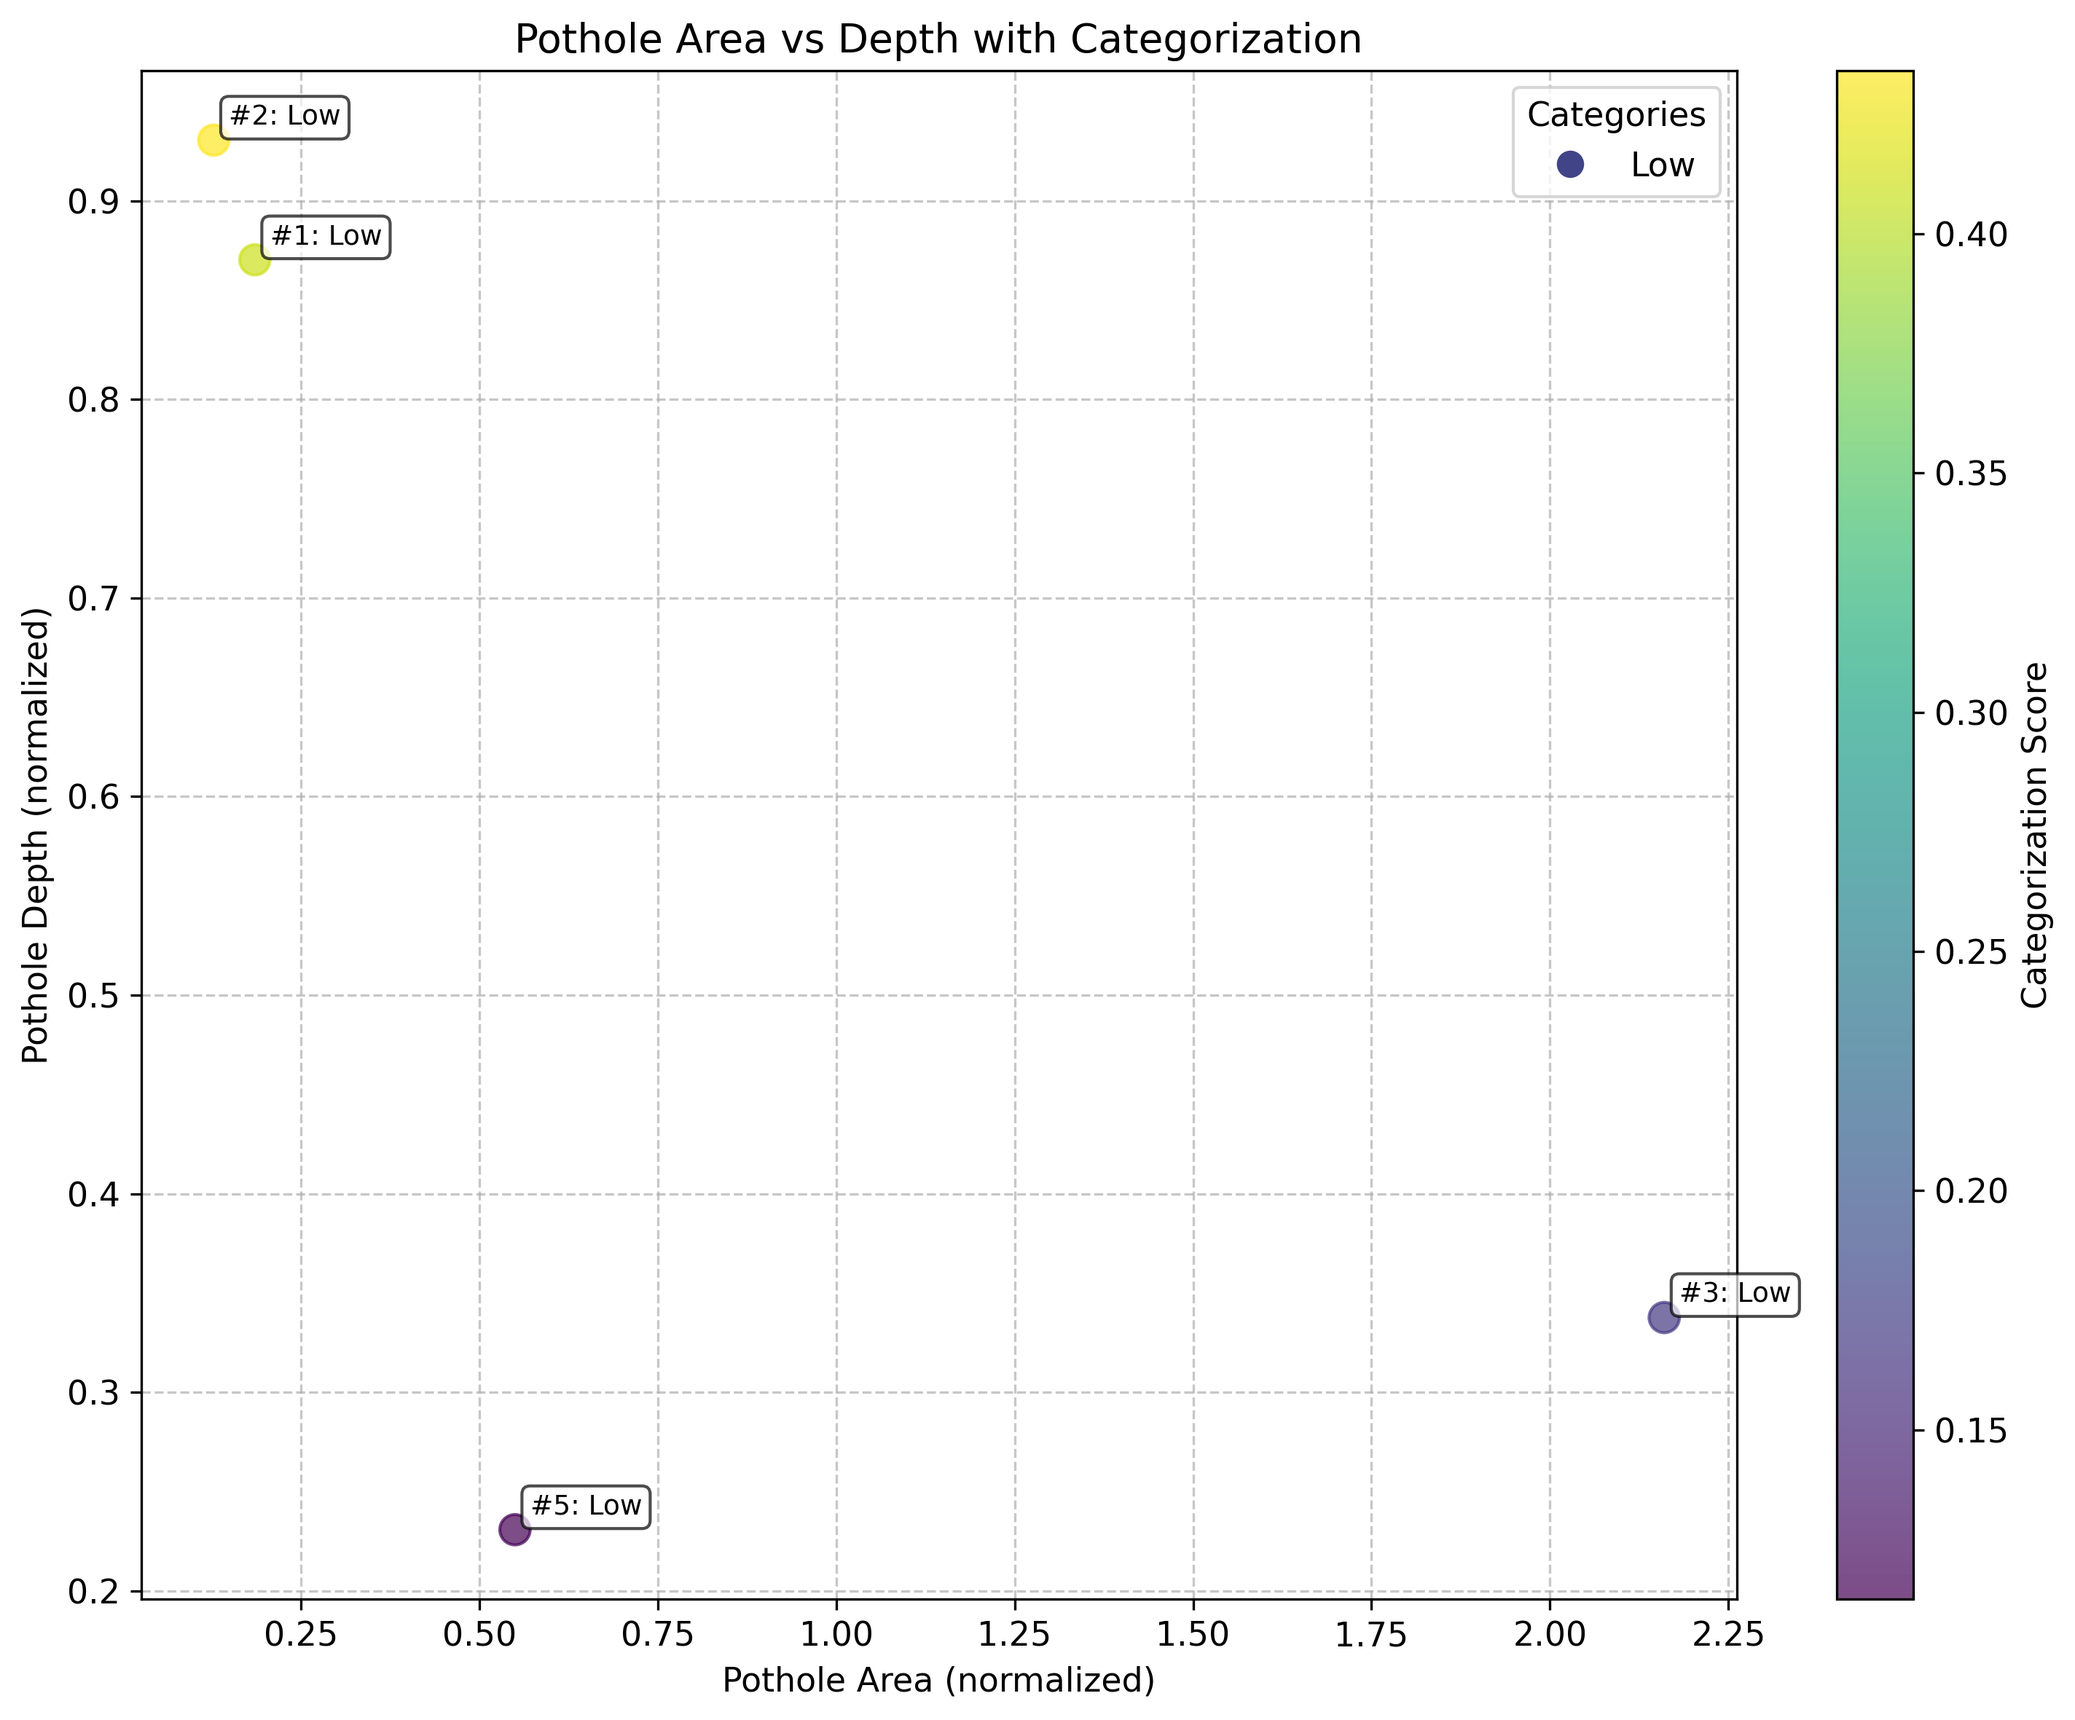
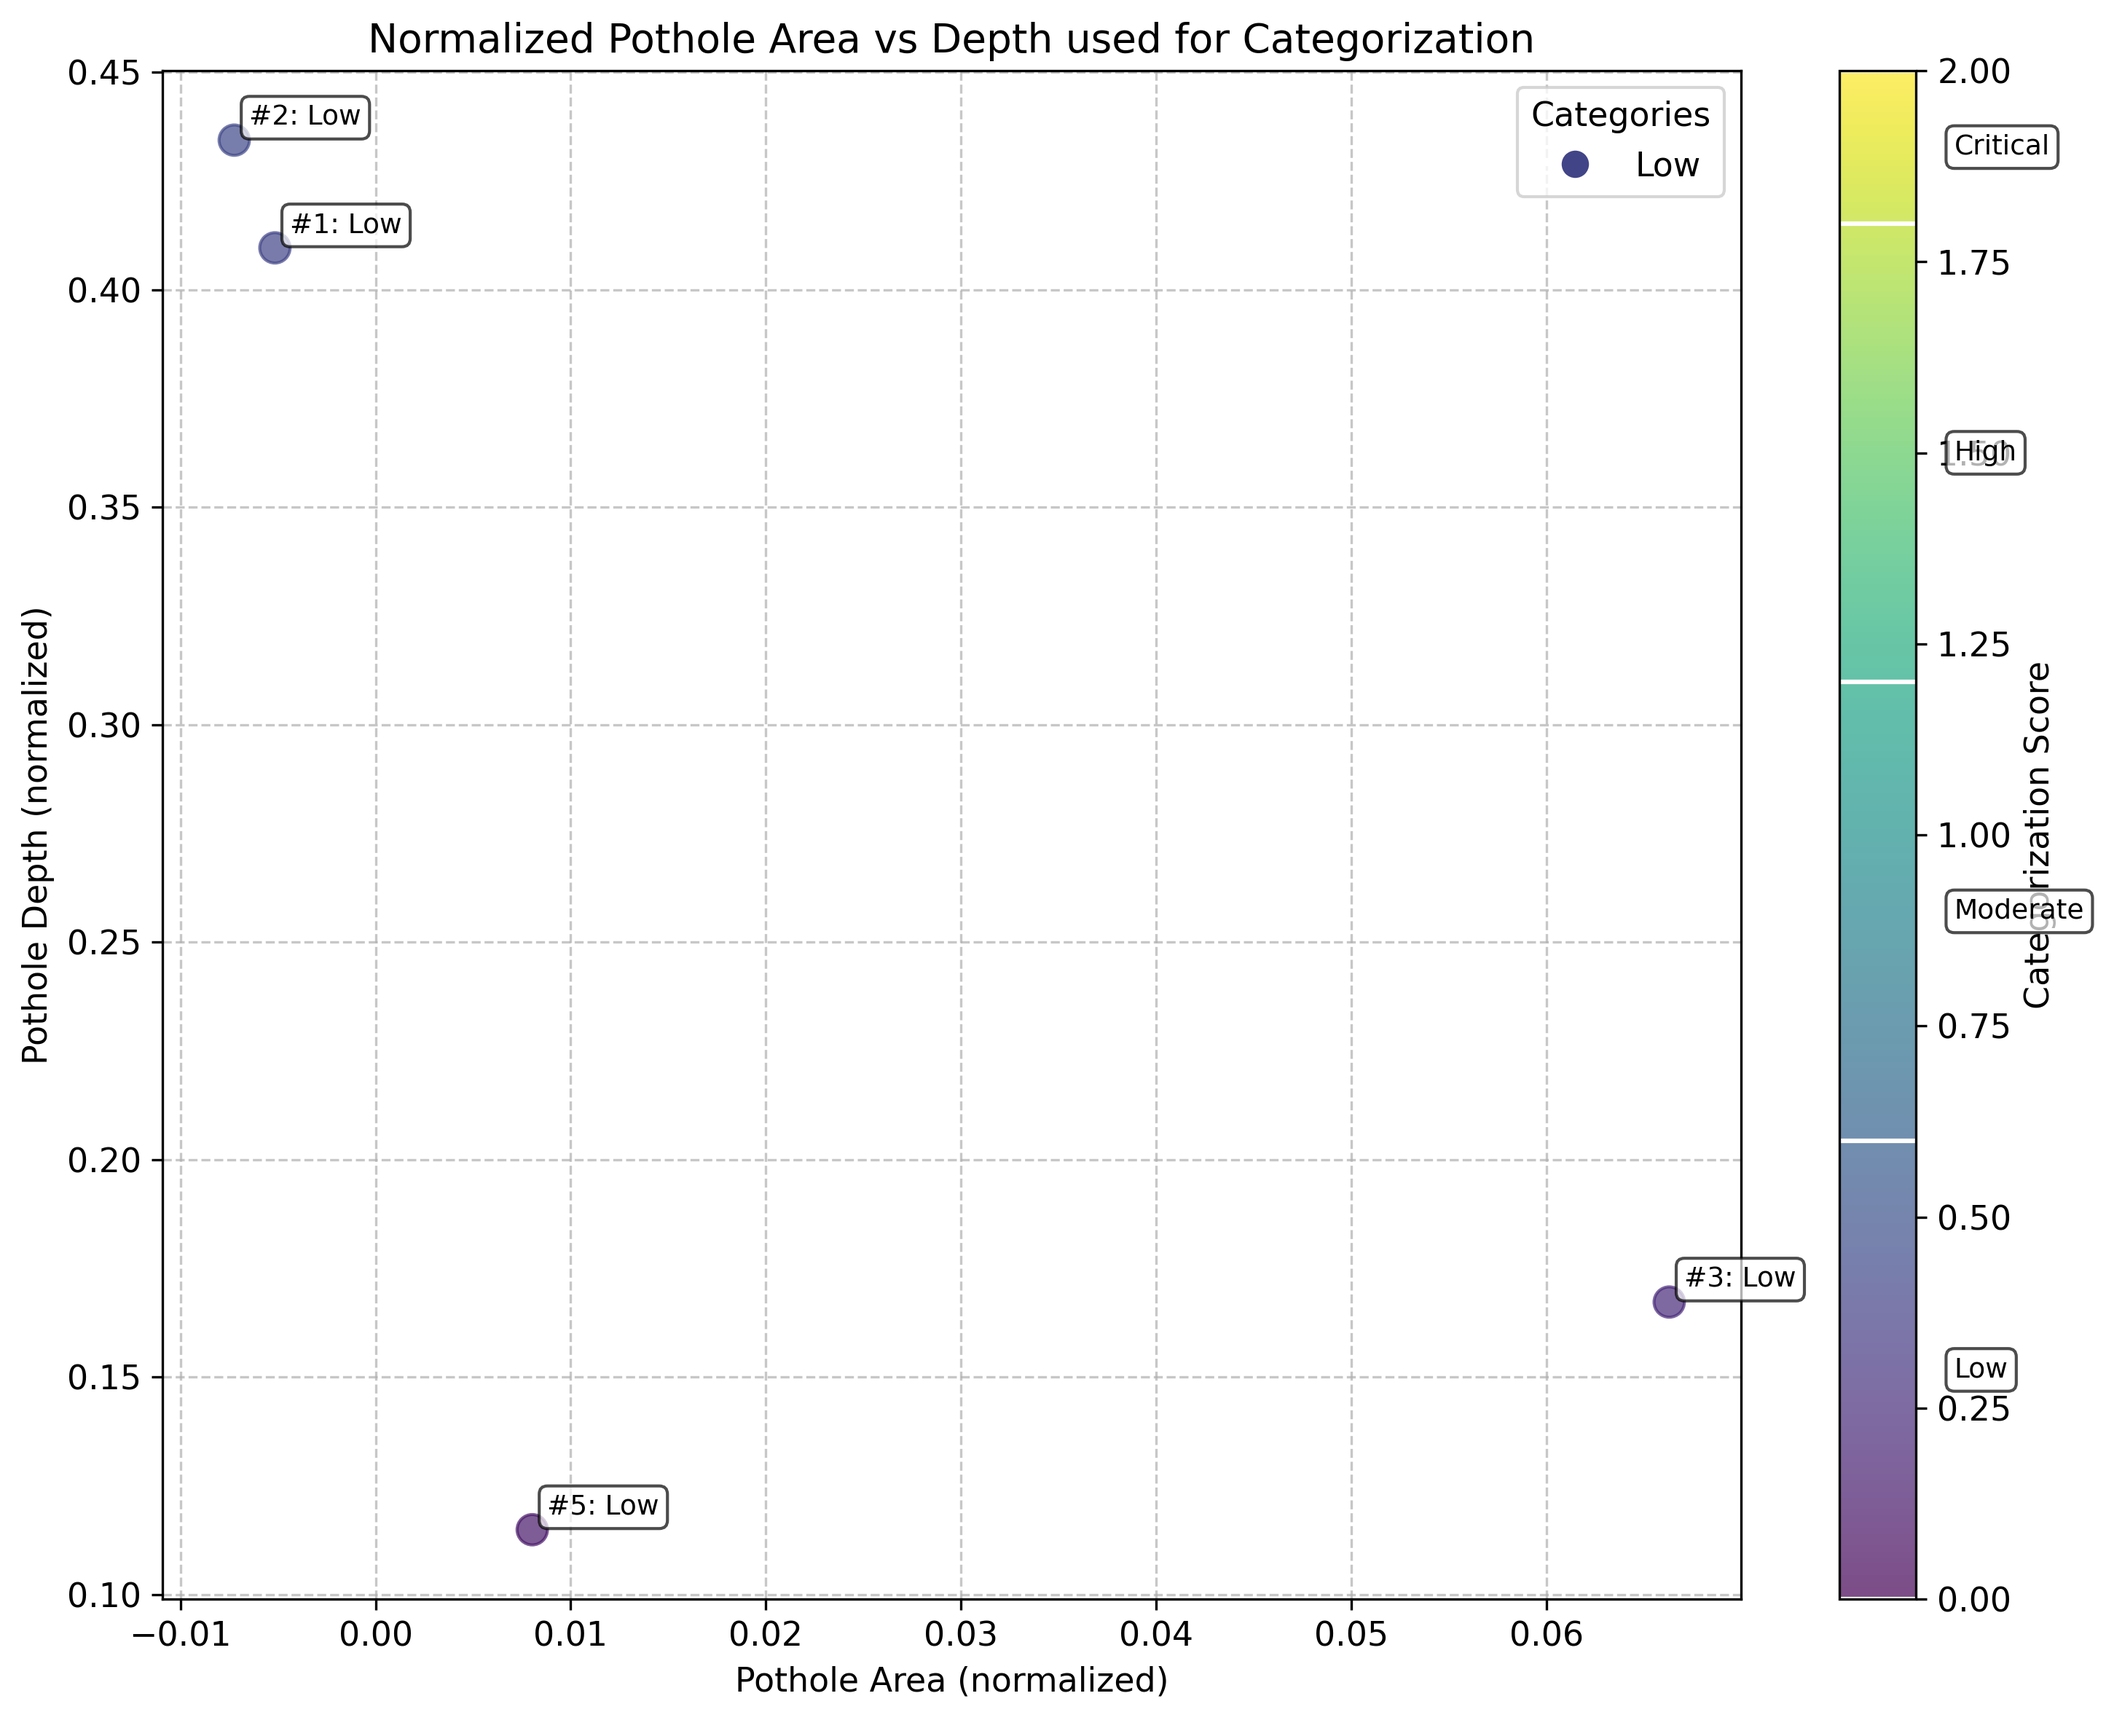
trying to fix area norm

diff --git a/pipeline/pothole_categorization_stage.py b/pipeline/pothole_categorization_stage.py
@@ -18,23 +18,63 @@ class PotholeCategorizationStage:
 
         for i, (_, _, is_on_road, _) in enumerate(filtered_detections):
             total_score = -1
+            area_norm = -1
+            depth_norm = -1
             if is_on_road:
-                area = pothole_areas[i]
+                estimated_area = pothole_areas[i]
                 depth = depth_values[i]
-
+                
+                """
+                AREA VALUE NORMALIZATION
+                """
                 # Normalization of the area values using normalization expression (max value of 1.0)
                 # TODO: NATHAN update this to have the different supported resolutions we are planning to use
                 if self.resolution == (3280, 2464):
-                    width = 3280
-                    height = 2464
-                elif self.resolution == (1280, 720):
-                    width = 1280
-                    height = 720
-                    
-                max_area = (width/2) * (height/2)
-                min_area = 528
-                area_norm = (area - min_area) / (max_area - min_area)
+                    img_width = 3280
+                    img_height = 2464
+                    a = -0.00022788150560381466
+                    b = -249.57544427170112
+                    c = 0.6036184827412467
+                    d = -0.00036558500089469364
 
+                    # these values are estimated as the smallest bounding box which can be detected
+                    min_area_top_left_coord = (1565, 868)
+                    min_area_bot_right_coord = (1718, 880)
+
+                elif self.resolution == (1280, 720):
+                    img_width = 1280
+                    img_height = 720
+
+                    # these values are estimated as the smallest bounding box which can be detected
+                    min_area_top_left_coord = (602, 261)
+                    min_area_bot_right_coord = (678, 266)
+                
+
+                ##### calculate the MAX area taking into account the scaling factor
+                max_width = img_width/2
+                max_height = img_height/2
+                max_area = max_width * max_height # assuming the biggest pothole can be half of the images
+                max_area_y_distance_middle_pothole = max_height/2 # y distance in pixels to middle of bounding box
+
+                scaling_factor = a/(b + c*max_area_y_distance_middle_pothole + d*(max_area_y_distance_middle_pothole**2))
+                max_area_final = scaling_factor * max_area 
+
+                ##### calculate the MIN area taking into account the scaling factor
+                min_width = min_area_bot_right_coord[0] - min_area_top_left_coord[0] # using the min_area coordinates
+                min_height = min_area_bot_right_coord[1] - min_area_top_left_coord[1]
+                min_area = min_width * min_height
+                min_area_y_distance_middle_pothole = (min_area_top_left_coord[1] + min_area_bot_right_coord[1]) / 2
+
+                scaling_factor = a/(b + c*min_area_y_distance_middle_pothole + d*(min_area_y_distance_middle_pothole**2))
+                min_area = scaling_factor * min_area
+
+                ##### calculate the normalized area => [0, 1]
+                area_norm = (estimated_area - min_area) / (max_area_final - min_area)
+
+
+                """
+                DEPTH VALUE NORMALIZATION
+                """
                 # Normalization of the depth values using a modified sigmoid function to normalize the depth values
                 # Modified sigmoid function is bounded between 0 and 1 for the positive
                 # values of x. Default sigmoid function is bounded between 0 and 1 for
@@ -42,9 +82,8 @@ class PotholeCategorizationStage:
                 depth_norm = 2 * (1 / (1+math.exp(-depth)) - 0.5) # highest value of 1
 
                 total_score = depth_norm + area_norm
-                normalized_areas.append(area_norm)
-                normalized_depths.append(depth_norm)
-                
+                print(f"Area Norm: {area_norm}, Depth Norm: {depth_norm}, Total Score: {total_score}")
+
             # Categorization of the potholes based on the normalized area and depth values
             if 1.8 <= total_score < 2.0:
                 category = "Critical"
@@ -59,5 +98,7 @@ class PotholeCategorizationStage:
 
             pothole_categories.append(category)
             pothole_scores.append(total_score)
+            normalized_areas.append(area_norm)
+            normalized_depths.append(depth_norm)
 
         return { 'categories' : pothole_categories, 'scores' : pothole_scores , 'normalized_areas': normalized_areas, 'normalized_depths': normalized_depths}

diff --git a/utils_lib/visualization.py b/utils_lib/visualization.py
@@ -167,10 +167,6 @@ def visualize_pothole_areas(image, filtered_detections, pothole_areas, save_path
         ax.text(x1, y1-5, label, color=color, fontsize=10,
                 verticalalignment='bottom', bbox=text_bbox)
     
-    plt.figtext(0.5, 0.01, 
-                "Potholes on road with area measurements\n", 
-                ha="center", fontsize=10, bbox={"facecolor":"white", "alpha":0.8, "pad":5})
-    
     plt.tight_layout(rect=[0, 0.03, 1, 0.97])  # Make room for the bottom text
     
     area_viz_save_path = os.path.join(save_path, f'{image_name}_5_pothole_areas.png')
@@ -260,12 +256,12 @@ def visualize_area_depth_results(pothole_categorizations, filtered_detections, s
         category_labels = ["Low", "Moderate", "High", "Critical"]
         
         for boundary in category_boundaries:
-            norm_boundary = boundary / 2.0  # Normalize to [0,1] range for colorbar
+            norm_boundary = boundary
             cbar.ax.axhline(y=norm_boundary, color='white', linestyle='-', linewidth=1.5)
         
         positions = [(category_boundaries[i] + category_boundaries[i+1])/2 for i in range(len(category_boundaries)-1)]
         for pos, label in zip(positions, category_labels):
-            norm_pos = pos / 2.0  # Normalize to [0,1] range for colorbar
+            norm_pos = pos
             cbar.ax.text(1.5, norm_pos, label, ha='left', va='center', fontsize=9, color='black',
                         bbox=dict(boxstyle="round,pad=0.3", fc="white", alpha=0.7))
         
@@ -458,7 +454,7 @@ def visualize_combined_results(pipeline_output, save_path):
         categories = [pothole_categorizations['categories'][i] for i in on_road_indices]
         scores = [pothole_categorizations['scores'][i] for i in on_road_indices]
         
-        scatter = ax.scatter(areas, depths, s=100, alpha=0.7, c=scores, cmap='viridis', vmin=0, vmax=2.0)
+        scatter = ax[1,2].scatter(areas, depths, s=100, alpha=0.7, c=scores, cmap='viridis', vmin=0, vmax=2.0)
         
         cbar = plt.colorbar(scatter, ax=ax[1, 2])
         cbar.set_label('Categorization Score')
@@ -468,12 +464,12 @@ def visualize_combined_results(pipeline_output, save_path):
         category_labels = ["Low", "Moderate", "High", "Critical"]
         
         for boundary in category_boundaries:
-            norm_boundary = boundary / 2.0  # Normalize to [0,1] range for colorbar
+            norm_boundary = boundary
             cbar.ax.axhline(y=norm_boundary, color='white', linestyle='-', linewidth=1.5)
         
         positions = [(category_boundaries[i] + category_boundaries[i+1])/2 for i in range(len(category_boundaries)-1)]
         for pos, label in zip(positions, category_labels):
-            norm_pos = pos / 2.0  # Normalize to [0,1] range for colorbar
+            norm_pos = pos
             cbar.ax.text(1.5, norm_pos, label, ha='left', va='center', fontsize=9, color='black',
                         bbox=dict(boxstyle="round,pad=0.3", fc="white", alpha=0.7))
         

diff --git a/pipeline/area_estimation_stage.py b/pipeline/area_estimation_stage.py
@@ -18,11 +18,6 @@ class AreaEstimationStage:
         
         pothole_areas = []
 
-        a = -0.00022788150560381466
-        b = -249.57544427170112
-        c = 0.6036184827412467
-        d = -0.00036558500089469364
-
         for _, bbox, is_on_road, _ in filtered_detections:
             area = 0
             if (is_on_road):
@@ -33,10 +28,12 @@ class AreaEstimationStage:
                 # TODO: NATHAN update this to have the different supported resolutions we are planning to use
                 # TODO: NATHAN need to calculate the other scaling factors for the other resolutions
                 if self.resolution == (3280, 2464):
+                    a = -0.00022788150560381466
+                    b = -249.57544427170112
+                    c = 0.6036184827412467
+                    d = -0.00036558500089469364
                     scaling_factor = a/(b + c*y_distance_middle_pothole + d*(y_distance_middle_pothole**2))
                 # elif self.resolution == (1280, 720):
-                #     width = 1280
-                #     height = 720
                 
                 area = scaling_factor * bounding_box_area
                 pothole_areas.append(area)

diff --git a/main.py b/main.py
@@ -90,7 +90,7 @@ def main():
             
             # Stage 6: Pothole Categorization
             pothole_categorizations = pothole_categorization_stage.process(img_path, filtered_detections, pothole_areas, depth_estimations['relative_depths_divided_area'])
-            visualize_area_depth_results(pothole_areas, depth_estimations, pothole_categorizations, filtered_detections, save_path, image_name)
+            visualize_area_depth_results(pothole_categorizations, filtered_detections, save_path, image_name)
 
             process_time = time() - start_time
             print(f"Processing completed in {process_time:.2f} seconds (including saving the visualizations)")
